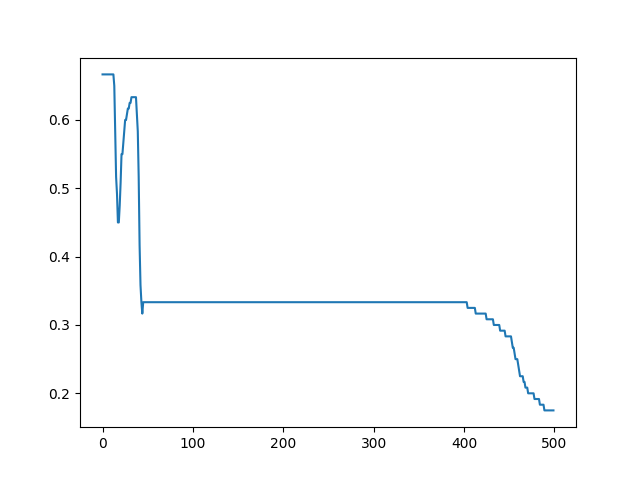
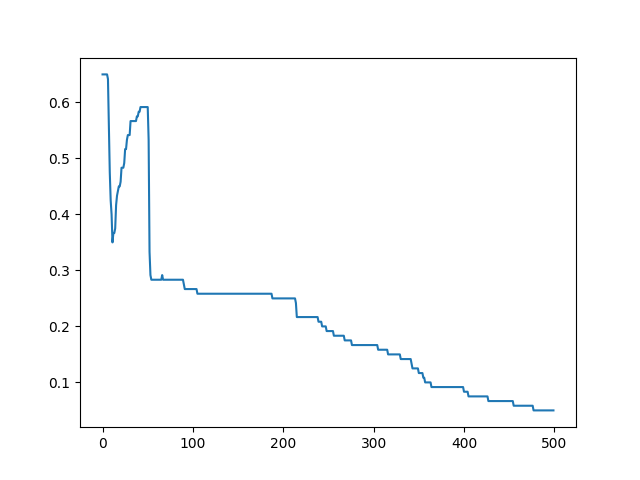
ss

diff --git a/T809DATA_2022/05_backprop/solution.py b/T809DATA_2022/05_backprop/solution.py
@@ -50,8 +50,9 @@ def ffnn(
     '''
     z0=np.insert(x,0,1)
     aOne= []
-    z1= []
+    z1=[]
     for i in range(M):
+
         aOne.append(sum(z0*W1[:,i]))
         z1.append(sigmoid(aOne[i]))
     z1.insert(0,1)
@@ -134,7 +135,7 @@ def train_nn(
     misclassification_rate= []
     results = []
     for j in range(iterations):
-        sum=0
+        sum=np.zeros(X_train.shape[0])
         errors=0
         dE1_total= np.zeros((W1.shape[0],W1.shape[1]))
         dE2_total= np.zeros((W2.shape[0],W2.shape[1]))
@@ -150,8 +151,8 @@ def train_nn(
             if(target_y[position]!= 1):
                 errors+=1
             for a in range(len(target_y)):
-                sum+=target_y[a]*np.log(y[a])+(1-target_y[a])*np.log(1-y[a])
-        E_total.append(-sum)
+                sum[i]+=target_y[a]*np.log(y[a])+(1-target_y[a])*np.log(1-y[a])
+        E_total.append(-np.mean(sum))
         misclassification_rate.append(errors/X_train.shape[0])
         W1 = W1- eta * dE1_total/ X_train.shape[0]
         W2 = W2- eta * dE2_total/ X_train.shape[0]
@@ -241,7 +242,7 @@ def independent():
     pass
 
 
-
+'''
 print("----TEST 1.1-----")
 print(sigmoid(0.5) == 0.6224593312018546)
 print(d_sigmoid(0.2) == 0.24751657271185995)
@@ -324,5 +325,154 @@ print(test_targets)
 
 print("----- TEST 2.3 -----")
 tester()
+'''
 
 
+
+print("TEST EXTRA 2")
+np.random.seed(90210)
+features, targets, classes = load_iris()
+(train_features, train_targets), (test_features, test_targets) = split_train_test(features, targets)
+
+print(train_features[:10,:])
+x = train_features[0, :]
+print(train_features[0, :])
+
+K = 3
+M = 8
+D = train_features.shape[1]
+W1 = 2 * np.random.rand(D + 1, M) - 1
+W2 = 2 * np.random.rand(M + 1, K) - 1
+
+print(W1)
+print(W2)
+y, z0, z1, a1, a2 = ffnn(x, M, K, W1, W2)
+
+print("1)Results mine:",y)
+print("2)Results teacher: [0.70954302, 0.53441718, 0.46529406]")
+
+print("2)Results mine:",z0)
+print("2)Results teacher: [1. , 4.8, 3.1, 1.6, 0.2]")
+
+print("3)Results mine:",z1)
+print("3)Results teacher: [1.00000000e+00, 4.28036933e-04, 3.24858743e-02, 1.06131693e-01, 9.89084573e-01, 9.47322339e-01, 9.74266738e-01, 4.57365902e-02, 9.51734218e-01]")
+
+print("4)Results mine:",a1)
+print("4)Results teacher: [-7.75587295, -3.39392467, -2.13087774,4.50660275, 2.88944794, 3.63390074, -3.03804111, 2.98156294]")
+
+print("5)Results mine:",a2)
+print("5)Results teacher: [ 0.89316566, 0.13788676, -0.13904734]")
+
+
+target_y = np.zeros(K)
+target_y[targets[0]] = 1.0
+y, dE1, dE2 = backprop(x, target_y, M, K, W1, W2)
+
+print("1)Results mine:",y)
+print("2)Results teacher: [0.70954302, 0.53441718, 0.46529406]")
+teacherResult= np.asmatrix([[-1.31236522e-04, -9.00275453e-03, -3.31464988e-03,3.74790282e-03, -1.91061161e-02, -5.14849162e-03,5.97235578e-03, -1.62546059e-02],[-6.29935308e-04, -4.32132218e-02, -1.59103194e-02,1.79899335e-02, -9.17093574e-02, -2.47127598e-02,2.86673078e-02, -7.80221084e-02],[-4.06833220e-04, -2.79085390e-02, -1.02754146e-02,1.16184987e-02, -5.92289600e-02, -1.59603240e-02,1.85143029e-02, -5.03892784e-02],[-2.09978436e-04, -1.44044073e-02, -5.30343980e-03,5.99664450e-03, -3.05697858e-02, -8.23758659e-03,9.55576925e-03, -2.60073695e-02],[-2.62473045e-05, -1.80055091e-03, -6.62929975e-04,7.49580563e-04, -3.82122323e-03, -1.02969832e-03,1.19447116e-03, -3.25092119e-03]])
+print("All Close dE1=",np.allclose(dE1,teacherResult))
+teacherResultdE2=[[-2.90456980e-01, 5.34417178e-01, 4.65294065e-01],[-1.24326315e-04, 2.28750290e-04, 1.99163044e-04],[-9.43574892e-03, 1.73610092e-02, 1.51154845e-02],[-3.08266911e-02, 5.67186000e-02, 4.93824470e-02],[-2.87286518e-01, 5.28583786e-01, 4.60215181e-01],[-2.75156385e-01, 5.06265331e-01, 4.40783462e-01],[-2.82982574e-01, 5.20664881e-01, 4.53320531e-01],[-1.32845118e-02, 2.44424195e-02, 2.12809640e-02],[-2.76437846e-01, 5.08623114e-01, 4.42836283e-01]]
+print("All Close dE2=",np.allclose(dE2,teacherResultdE2))
+
+W1tr, W2tr, Etotal, misclassification_rate, last_guesses = train_nn(train_features[:20, :], train_targets[:20], M, K, W1, W2, 500, 0.1)
+ETotalTeacher= [2.32723652, 2.22793384, 2.14841145, 2.08524528, 2.03533371,1.99599349, 1.96498535, 1.94048987, 1.92105642, 1.90554286,1.89305678, 1.88290374, 1.8745441 , 1.86755849, 1.86162078,1.85647726, 1.85193088, 1.8478293 , 1.84405593, 1.84052298,1.83716608, 1.83393963, 1.8308129 , 1.82776633, 1.82478823,1.82187195, 1.81901358, 1.81621029, 1.81345932, 1.81075746,1.80810097, 1.8054856 , 1.80290686, 1.80036012, 1.79784087,1.79534476, 1.79286769, 1.79040587, 1.78795577, 1.78551419,1.78307816, 1.78064498, 1.77821215, 1.7757774 , 1.77333859,1.77089377, 1.76844112, 1.76597891, 1.76350556, 1.76101953,1.7585194 , 1.7560038 , 1.75347141, 1.75092097, 1.74835125,1.74576105, 1.74314921, 1.74051456, 1.73785596, 1.73517225,1.73246228, 1.72972489, 1.72695889, 1.72416309, 1.72133624,1.71847709, 1.71558434, 1.71265666, 1.70969267, 1.70669097,1.70365013, 1.70056868, 1.69744515, 1.69427805, 1.69106593,1.68780736, 1.684501, 1.68114562, 1.67774012, 1.67428364,1.67077556, 1.6672156 , 1.66360386, 1.65994095, 1.65622796,1.6524666 , 1.64865921, 1.6448088 , 1.64091899, 1.63699407,1.63303882, 1.62905848, 1.62505857, 1.62104471, 1.61702247,1.61299715, 1.60897364, 1.60495626, 1.60094867, 1.5969538 ,1.59297386, 1.58901033, 1.58506411, 1.5811355 , 1.57722439,1.57333032, 1.5694526 , 1.56559038, 1.56174274, 1.55790872,1.55408741, 1.55027793, 1.54647948, 1.54269136, 1.53891293,1.53514367, 1.53138313, 1.52763093, 1.52388678, 1.52015047,1.51642183, 1.51270076, 1.5089872 , 1.50528115, 1.50158263,1.49789172, 1.4942085 , 1.49053312, 1.48686572, 1.48320646,1.47955554, 1.47591317, 1.47227955, 1.46865492, 1.46503951,1.46143357, 1.45783735, 1.4542511 , 1.45067509, 1.44710956,1.44355479, 1.44001102, 1.43647853, 1.43295756, 1.42944837,1.42595121, 1.42246633, 1.41899397, 1.41553438, 1.41208777,1.40865439, 1.40523445, 1.40182817, 1.39843576, 1.39505742,1.39169335, 1.38834374, 1.38500877, 1.38168863, 1.37838348,1.37509347, 1.37181878, 1.36855955, 1.36531592, 1.36208802,1.358876, 1.35567996, 1.35250002, 1.34933629, 1.34618888,1.34305788, 1.33994338, 1.33684547, 1.33376422, 1.3306997 ,1.32765197, 1.32462111, 1.32160716, 1.31861017, 1.31563018,1.31266722, 1.30972135, 1.30679256, 1.3038809 , 1.30098637,1.29810899, 1.29524876, 1.29240568, 1.28957975, 1.28677097,1.28397931, 1.28120476, 1.27844731, 1.27570692, 1.27298356,1.2702772 , 1.2675878 , 1.26491533, 1.26225973, 1.25962095,1.25699894, 1.25439365, 1.25180501, 1.24923296, 1.24667744,1.24413837, 1.24161569, 1.23910931, 1.23661916, 1.23414516,1.23168722, 1.22924527, 1.2268192 , 1.22440893, 1.22201437,1.21963542, 1.21727199, 1.21492397, 1.21259127, 1.21027379,1.20797142, 1.20568405, 1.20341159, 1.20115392, 1.19891093,1.19668251, 1.19446856, 1.19226896, 1.19008359, 1.18791235,1.18575512, 1.18361178, 1.18148222, 1.17936632, 1.17726397,1.17517504, 1.17309942, 1.17103699, 1.16898764, 1.16695124,1.16492767, 1.16291683, 1.16091858, 1.15893281, 1.1569594 ,1.15499823, 1.15304919, 1.15111215, 1.149187 , 1.14727362,1.14537188, 1.14348168, 1.1416029 , 1.13973541, 1.13787911,1.13603387, 1.13419958, 1.13237612, 1.13056339, 1.12876126,1.12696961, 1.12518835, 1.12341735, 1.1216565 , 1.11990569,1.11816481, 1.11643375, 1.11471239, 1.11300063, 1.11129835,1.10960546, 1.10792183, 1.10624737, 1.10458197, 1.10292552,1.10127791, 1.09963905, 1.09800882, 1.09638712, 1.09477385,1.09316891, 1.0915722 , 1.08998361, 1.08840305, 1.08683042,1.08526561, 1.08370852, 1.08215907, 1.08061716, 1.07908268,1.07755554, 1.07603566, 1.07452292, 1.07301725, 1.07151854,1.07002671, 1.06854166, 1.0670633 , 1.06559155, 1.06412631,1.0626675 , 1.06121502, 1.05976879, 1.05832872, 1.05689473,1.05546673, 1.05404464, 1.05262837, 1.05121784, 1.04981296,1.04841366, 1.04701986, 1.04563146, 1.0442484 , 1.04287059,1.04149795, 1.04013041, 1.03876789, 1.03741031, 1.0360576 ,1.03470968, 1.03336647, 1.0320279 , 1.0306939 , 1.0293644 ,1.02803932, 1.02671859, 1.02540214, 1.0240899 , 1.0227818 ,1.02147777, 1.02017775, 1.01888166, 1.01758943, 1.01630101,1.01501633, 1.01373531, 1.0124579 , 1.01118403, 1.00991364,1.00864667, 1.00738305, 1.00612272, 1.00486562, 1.00361169,1.00236087, 1.0011131 , 0.99986833, 0.99862649, 0.99738753,0.99615138, 0.99491801, 0.99368734, 0.99245933, 0.99123392,0.99001105, 0.98879068, 0.98757275, 0.9863572 , 0.985144 ,0.98393308, 0.9827244 , 0.9815179 , 0.98031354, 0.97911127,0.97791104, 0.97671281, 0.97551652, 0.97432213, 0.9731296 ,0.97193887, 0.97074992, 0.96956268, 0.96837712, 0.9671932 ,0.96601087, 0.96483009, 0.96365082, 0.96247302, 0.96129665,0.96012167, 0.95894804, 0.95777572, 0.95660467, 0.95543486,0.95426626, 0.95309881, 0.95193249, 0.95076726, 0.94960309,0.94843994, 0.94727779, 0.94611658, 0.9449563 , 0.94379692,0.94263839, 0.94148068, 0.94032378, 0.93916764, 0.93801224,0.93685755, 0.93570353, 0.93455017, 0.93339743, 0.93224529,0.93109371, 0.92994268, 0.92879216, 0.92764214, 0.92649258,0.92534347, 0.92419477, 0.92304647, 0.92189854, 0.92075096,0.9196037 , 0.91845675, 0.91731009, 0.91616369, 0.91501753,0.9138716 , 0.91272587, 0.91158032, 0.91043494, 0.90928971,0.90814461, 0.90699962, 0.90585472, 0.90470991, 0.90356516,0.90242046, 0.90127579, 0.90013114, 0.8989865 , 0.89784184,0.89669716, 0.89555244, 0.89440767, 0.89326284, 0.89211794,0.89097295, 0.88982786, 0.88868266, 0.88753735, 0.8863919 ,0.88524632, 0.88410059, 0.8829547 , 0.88180865, 0.88066242,0.87951601, 0.87836941, 0.87722261, 0.8760756 , 0.87492839,0.87378096, 0.8726333 , 0.87148542, 0.8703373 , 0.86918895,0.86804034, 0.86689149, 0.86574239, 0.86459303, 0.86344342,0.86229354, 0.86114339, 0.85999298, 0.85884229, 0.85769133,0.8565401 , 0.85538859, 0.85423681, 0.85308475, 0.85193241,0.85077979, 0.84962689, 0.84847372, 0.84732027, 0.84616654,0.84501253, 0.84385825, 0.84270369, 0.84154887, 0.84039377,0.8392384 , 0.83808277, 0.83692688, 0.83577073, 0.83461432,0.83345766, 0.83230074, 0.83114358, 0.82998618, 0.82882854,0.82767067, 0.82651257, 0.82535424, 0.82419569, 0.82303693]
+W1tr_teacher=[[-0.25110607, 0.92796049, -0.91225195, -0.28777929, 0.81318948, 0.23835522, -0.22360665, 0.12187613],[-0.86742106, 1.03317936, -0.12795325, 0.8859156 , 0.84864034, 0.77358935, 0.1295815 , -0.40672377],[-0.71318284,0.05932081, 0.45588421, 0.49032422, 0.56954347, -0.06139885,1.40122813, 0.72979185],[-0.72024839, -1.07713655, -0.71681752, -0.79729479, -2.61269353, 0.09370074, -1.77038908, 0.77990277],[ 0.12129967, -1.53913854, -0.35751647, 0.97434933, -0.59098694, -0.49435129, -0.2846215 , 0.65391059]]
+misclassification_rateTeacher= [0.7 , 0.7 , 0.7 , 0.7 , 0.7 , 0.7 , 0.7 , 0.4 , 0.55, 0.55, 0.55,0.55, 0.55, 0.55, 0.55, 0.55, 0.55, 0.55, 0.55, 0.55, 0.55, 0.55,0.55, 0.55, 0.55, 0.55, 0.55, 0.55, 0.55, 0.55, 0.55, 0.55, 0.55,0.55, 0.55, 0.55, 0.55, 0.55, 0.55, 0.55, 0.55, 0.55, 0.55, 0.55,0.55, 0.55, 0.55, 0.55, 0.55, 0.55, 0.55, 0.55, 0.55, 0.55, 0.55,0.55, 0.55, 0.55, 0.55, 0.55, 0.55, 0.55, 0.55, 0.55, 0.55, 0.55,0.55, 0.55, 0.55, 0.55, 0.55, 0.55, 0.55, 0.55, 0.55, 0.55, 0.55,0.55, 0.55, 0.55, 0.55, 0.55, 0.55, 0.55, 0.55, 0.5 , 0.45, 0.45,0.45, 0.35, 0.35, 0.3 , 0.25, 0.25, 0.25, 0.25, 0.25, 0.25, 0.25,0.25, 0.25, 0.25, 0.25, 0.25, 0.25, 0.25, 0.25, 0.25, 0.25, 0.25,0.25, 0.25, 0.25, 0.25, 0.25, 0.25, 0.25, 0.25, 0.25, 0.25, 0.25,0.25, 0.25, 0.25, 0.25, 0.25, 0.25, 0.25, 0.25, 0.25, 0.25, 0.25,0.25, 0.25, 0.25, 0.25, 0.25, 0.25, 0.25, 0.25, 0.25, 0.25, 0.25,0.25, 0.25, 0.25, 0.25, 0.25, 0.25, 0.25, 0.25, 0.25, 0.25, 0.25,0.25, 0.25, 0.25, 0.25, 0.25, 0.25, 0.25, 0.25, 0.25, 0.25, 0.25,0.25, 0.25, 0.25, 0.25, 0.25, 0.25, 0.25, 0.25, 0.25, 0.25, 0.25,0.25, 0.25, 0.25, 0.25, 0.25, 0.25, 0.25, 0.25, 0.25, 0.25, 0.25,0.25, 0.25, 0.25, 0.25, 0.25, 0.25, 0.25, 0.25, 0.25, 0.25, 0.25,0.25, 0.25, 0.25, 0.25, 0.25, 0.25, 0.25, 0.25, 0.25, 0.25, 0.25,0.25, 0.25, 0.25, 0.25, 0.25, 0.25, 0.25, 0.25, 0.25, 0.25, 0.25,0.25, 0.25, 0.25, 0.25, 0.25, 0.25, 0.25, 0.25, 0.25, 0.25, 0.25,0.25, 0.25, 0.25, 0.25, 0.25, 0.25, 0.25, 0.25, 0.25, 0.25, 0.25,0.25, 0.25, 0.25, 0.25, 0.25, 0.25, 0.25, 0.25, 0.25, 0.25, 0.25,0.25, 0.25, 0.25, 0.25, 0.25, 0.25, 0.25, 0.25, 0.25, 0.25, 0.25,0.25, 0.25, 0.25, 0.25, 0.25, 0.25, 0.25, 0.25, 0.25, 0.25, 0.25,0.25, 0.25, 0.25, 0.25, 0.25, 0.25, 0.25, 0.25, 0.25, 0.25, 0.25,0.25, 0.25, 0.25, 0.25, 0.25, 0.25, 0.25, 0.25, 0.25, 0.25, 0.25,0.25, 0.25, 0.25, 0.25, 0.25, 0.25, 0.25, 0.25, 0.25, 0.25, 0.25,0.25, 0.25, 0.25, 0.25, 0.25, 0.25, 0.25, 0.25, 0.25, 0.25, 0.25,0.25, 0.25, 0.25, 0.25, 0.25, 0.25, 0.25, 0.25, 0.25, 0.25, 0.25,0.25, 0.25, 0.25, 0.25, 0.25, 0.25, 0.25, 0.25, 0.25, 0.25, 0.25,0.25, 0.25, 0.25, 0.25, 0.25, 0.25, 0.25, 0.25, 0.25, 0.25, 0.25,0.25, 0.25, 0.25, 0.25, 0.25, 0.25, 0.25, 0.25, 0.25, 0.25, 0.25,0.25, 0.25, 0.25, 0.25, 0.25, 0.25, 0.25, 0.25, 0.25, 0.25, 0.25,0.25, 0.25, 0.25, 0.25, 0.25, 0.25, 0.25, 0.25, 0.25, 0.25, 0.25,0.25, 0.25, 0.25, 0.25, 0.25, 0.25, 0.25, 0.25, 0.25, 0.25, 0.25,0.25, 0.25, 0.25, 0.25, 0.25, 0.25, 0.25, 0.25, 0.25, 0.25, 0.25,0.25, 0.25, 0.25, 0.25, 0.25, 0.25, 0.25, 0.25, 0.25, 0.25, 0.25,0.25, 0.25, 0.25, 0.25, 0.25, 0.25, 0.25, 0.25, 0.25, 0.25, 0.25,0.25, 0.25, 0.25, 0.25, 0.25, 0.25, 0.25, 0.25, 0.25, 0.25, 0.25,0.25, 0.25, 0.25, 0.25, 0.25, 0.25, 0.25, 0.25, 0.25, 0.25, 0.25,0.25, 0.25, 0.25, 0.25, 0.25, 0.25, 0.25, 0.25, 0.25, 0.25, 0.25,0.25, 0.25, 0.25, 0.25, 0.25, 0.25, 0.25, 0.25, 0.25, 0.25, 0.25,0.25, 0.25, 0.25, 0.25, 0.25, 0.25, 0.25, 0.25, 0.25, 0.25, 0.25,0.2 , 0.2 , 0.2 , 0.2 , 0.2 , 0.2 , 0.2 , 0.2 , 0.2 , 0.2 , 0.2 ,0.2 , 0.2 , 0.2 , 0.2 , 0.2 ]
+W2tr_teacher=[[-1.46173805, -0.04343924, 0.33552804],[-0.54489514, -0.05791163, -0.93626623],[ 1.0299593 , 1.25958619, -2.05995921],[-0.24239565, -0.91381051, 0.1240486 ],[-0.21688972, 0.33045176, 0.67208629],[ 2.75398285, -2.32759378, -2.17946552],[-0.83027554, -0.28835281, -0.06244675],[ 2.654379 , -0.9461879 , -0.76684353],[-1.27516546, -0.11441948, -0.53249936]]
+print("W1TR=", np.allclose(W1tr,W1tr_teacher))
+print("W2TR=", np.allclose(W2tr,W2tr_teacher))
+print("MisclassificationRate =",np.allclose(misclassification_rate,misclassification_rateTeacher))
+print("last_guesses",(np.allclose(last_guesses,[0., 1., 1., 1., 1., 0., 1., 1., 1., 1., 0., 1., 2., 0., 1., 1., 1.,0., 0., 1.])))
+print("Etotal-Comparison", np.allclose(Etotal,ETotalTeacher))
+
+
+print("Case 1")
+np.random.seed(23)
+features, targets, classes = load_iris()
+(train_features, train_targets), (test_features, test_targets) = split_train_test(features, targets)
+x = train_features[0, :]
+K = 3
+M = 6
+D = train_features.shape[1]
+W1 = 2 * np.random.rand(D + 1, M) - 1
+W2 = 2 * np.random.rand(M + 1, K) - 1
+y, z0, z1, a1, a2 = ffnn(x, M, K, W1, W2)
+
+
+print("y result = ", np.allclose(y,[0.3021099 , 0.48035154, 0.35292289]))
+print("z0 result = ", np.allclose(z0,[1. , 6.9, 3.1, 5.4, 2.1]))
+print("z1 result = ", np.allclose(z1,[1., 0.50598577, 0.81012814, 0.93167592, 0.37820463,0.14214478, 0.54717557]))
+print("a1 result = ", np.allclose(a1,[ 0.02394422, 1.45084301, 2.6127227 , -0.49717567, -1.79758923,0.18926524]))
+print("a1 result = ", np.allclose(a2,[-0.83727076, -0.07863435, -0.60621589]))
+
+
+target_y = np.zeros(K)
+target_y[targets[0]] = 1.0
+
+y, dE1, dE2 = backprop(x, target_y, M, K, W1, W2)
+print("y result = ", np.allclose(y,[0.3021099 , 0.48035154, 0.35292289]))
+dE1_teacher =[[0.00430237,-0.01753789,-0.02415926,0.30105166,-0.08800872,0.11542633],[0.02968633,-0.12101146,-0.16669889,2.07725644,-0.60726014,0.79644169],[0.01333734,-0.05436747,-0.07489371,0.93326014,-0.27282702,0.35782163],[0.02323278,-0.09470462,-0.13046,1.62567895,-0.47524707,0.62330219],[0.00903497,-0.03682958,-0.05073445,0.63220848,-0.1848183,0.2423953]]
+print("dE1 result = ", np.allclose(dE1,dE1_teacher))
+dE2_teacher =[[-0.6978901 , 0.48035154, 0.35292289],[-0.35312246, 0.24305104, 0.17857396],[-0.56538041, 0.3891463 ,0.28591276],[-0.65020739, 0.44753196, 0.32880975],[-0.26394526, 0.18167117, 0.13347707],[-0.09920143, 0.06827946,0.05016615],[-0.38186841, 0.26283663, 0.19311078]]
+print("dE2 result = ", np.allclose(dE2,dE2_teacher))
+
+
+W1tr, W2tr, Etotal, misclassification_rate, last_guesses = train_nn(train_features[:20, :], train_targets[:20], M, K, W1, W2, 500, 0.1)
+
+W1tr_teacher= [[ 0.4113604 , -0.03795444, 0.51340102, -0.12301019, -0.50337017, -0.51770395],[-1.63577531, -0.30102308, 0.44760859, -0.16212304, -0.76077129, 0.27412644],[-0.76914322, 1.29831831, 1.50732621, -1.28479466, 0.30739053, -1.56992871],[ 2.10438589, 0.75926539, -1.25962029, 1.67000656, -0.05154486, 1.21992214],[ 1.26850911, -0.24751442, -1.27533329, 0.77080041, 0.54099358, 1.22745711]]
+W2tr_teacher= [[0.28081412,-1.09243887,-0.71713827],[-1.57190232,-1.42154094,2.40252082],[-0.37652149,-1.59215728,-1.05827982],[2.95225318,0.37483314,-2.54744777],[-2.00431058,1.68047786,1.45127103],[0.93431371,0.10253565,-0.41364751],[-2.07569964,1.3497858,0.15276565]]
+ETotalTeacher=[2.14469834, 2.10243644, 2.07089589, 2.0456536 , 2.02444672,2.0059886 , 1.98949344, 1.97445629, 1.9605386 , 1.94750287,1.93517287, 1.92340865, 1.91209101, 1.90111272, 1.89037482,1.87978684, 1.86927025, 1.85876409, 1.84823136, 1.83766332,1.82707849, 1.81651415, 1.8060118 , 1.79560209, 1.78529582,1.77508419, 1.76494611, 1.75485799, 1.74480169, 1.73476896,1.72476201, 1.71479123, 1.7048715 , 1.6950183 , 1.68524492,1.67556102, 1.6659725 , 1.65648216, 1.64709061, 1.63779715,1.62860035, 1.61949846, 1.61048967, 1.60157225, 1.59274459,1.58400528, 1.57535314, 1.56678726, 1.55830697, 1.54991193,1.54160208, 1.53337765, 1.52523912, 1.51718723, 1.50922292,1.50134726, 1.49356145, 1.48586674, 1.47826438, 1.47075558,1.46334143, 1.45602293, 1.44880092, 1.44167603, 1.43464875,1.42771934, 1.42088788, 1.41415427, 1.40751822, 1.40097928,1.39453686, 1.38819022, 1.3819385 , 1.37578076, 1.36971594,1.36374294, 1.35786055, 1.35206755, 1.34636267, 1.34074459,1.33521198, 1.32976349, 1.32439776, 1.31911342, 1.3139091 ,1.30878343, 1.30373505, 1.2987626 , 1.29386473, 1.28904012,1.28428744, 1.27960538, 1.27499265, 1.27044799, 1.26597013,1.26155783, 1.25720987, 1.25292505, 1.24870219, 1.24454011,1.24043768, 1.23639375, 1.23240723, 1.22847702, 1.22460205,1.22078125, 1.2170136 , 1.21329808, 1.20963368, 1.20601942,1.20245434, 1.19893748, 1.19546791, 1.19204472, 1.18866701,1.1853339 , 1.18204451, 1.178798 , 1.17559354, 1.1724303 ,1.16930747, 1.16622428, 1.16317994, 1.16017369, 1.15720479,1.15427251, 1.15137612, 1.14851493, 1.14568824, 1.14289537,1.14013566, 1.13740846, 1.13471312, 1.13204902, 1.12941555,1.1268121 , 1.12423807, 1.12169289, 1.11917599, 1.11668682,1.11422481, 1.11178945, 1.1093802 , 1.10699654, 1.10463798,1.10230401, 1.09999415, 1.09770793, 1.09544487, 1.09320452,1.09098644, 1.08879017, 1.08661529, 1.08446139, 1.08232803,1.08021482, 1.07812136, 1.07604726, 1.07399213, 1.0719556 ,1.0699373 , 1.06793688, 1.06595398, 1.06398824, 1.06203934,1.06010694, 1.05819071, 1.05629033, 1.05440548, 1.05253587,1.05068119, 1.04884114, 1.04701543, 1.04520378, 1.0434059 ,1.04162153, 1.0398504 , 1.03809224, 1.03634679, 1.03461381,1.03289304, 1.03118424, 1.02948717, 1.02780159, 1.02612729,1.02446402, 1.02281158, 1.02116974, 1.01953829, 1.01791702,1.01630573, 1.01470421, 1.01311228, 1.01152973, 1.00995638,1.00839203, 1.00683652, 1.00528965, 1.00375126, 1.00222117,1.00069921, 0.99918521, 0.99767902, 0.99618047, 0.99468941,0.99320568, 0.99172913, 0.99025961, 0.98879698, 0.9873411 ,0.98589182, 0.98444901, 0.98301253, 0.98158226, 0.98015805,0.97873979, 0.97732734, 0.9759206 , 0.97451942, 0.97312371,0.97173334, 0.9703482 , 0.96896817, 0.96759315, 0.96622303,0.96485771, 0.96349708, 0.96214104, 0.96078949, 0.95944233,0.95809947, 0.95676082, 0.95542628, 0.95409575, 0.95276917,0.95144642, 0.95012744, 0.94881214, 0.94750043, 0.94619223,0.94488747, 0.94358607, 0.94228795, 0.94099304, 0.93970127,0.93841256, 0.93712685, 0.93584406, 0.93456412, 0.93328698,0.93201257, 0.93074082, 0.92947167, 0.92820507, 0.92694094,0.92567924, 0.9244199 , 0.92316288, 0.9219081 , 0.92065553,0.91940511, 0.91815678, 0.9169105 , 0.91566621, 0.91442387,0.91318343, 0.91194485, 0.91070807, 0.90947306, 0.90823976,0.90700814, 0.90577816, 0.90454978, 0.90332294, 0.90209763,0.90087379, 0.89965139, 0.89843039, 0.89721076, 0.89599247,0.89477547, 0.89355974, 0.89234524, 0.89113194, 0.88991982,0.88870883, 0.88749895, 0.88629015, 0.8850824 , 0.88387568,0.88266996, 0.88146521, 0.8802614 , 0.87905852, 0.87785653,0.87665542, 0.87545515, 0.87425571, 0.87305708, 0.87185923,0.87066215, 0.8694658 , 0.86827018, 0.86707527, 0.86588104,0.86468748, 0.86349456, 0.86230228, 0.86111062, 0.85991955,0.85872907, 0.85753916, 0.8563498 , 0.85516098, 0.85397269,0.85278491, 0.85159762, 0.85041083, 0.84922451, 0.84803866,0.84685326, 0.8456683 , 0.84448377, 0.84329966, 0.84211596,0.84093266, 0.83974976, 0.83856724, 0.83738509, 0.83620331,0.8350219 , 0.83384083, 0.83266012, 0.83147974, 0.83029969,0.82911997, 0.82794058, 0.8267615 , 0.82558273, 0.82440427,0.82322611, 0.82204824, 0.82087068, 0.8196934 , 0.81851641,0.8173397 , 0.81616327, 0.81498713, 0.81381125, 0.81263566,0.81146033, 0.81028528, 0.80911049, 0.80793598, 0.80676173,0.80558775, 0.80441403, 0.80324058, 0.8020674 , 0.80089448,0.79972183, 0.79854944, 0.79737733, 0.79620548, 0.7950339 ,0.7938626 , 0.79269157, 0.79152081, 0.79035033, 0.78918013,0.78801021, 0.78684057, 0.78567122, 0.78450215, 0.78333338,0.7821649 , 0.78099673, 0.77982885, 0.77866128, 0.77749401,0.77632706, 0.77516042, 0.7739941 , 0.77282811, 0.77166245,0.77049712, 0.76933212, 0.76816747, 0.76700317, 0.76583921,0.76467562, 0.76351238, 0.76234952, 0.76118702, 0.76002491,0.75886317, 0.75770183, 0.75654088, 0.75538033, 0.75422019,0.75306047, 0.75190116, 0.75074227, 0.74958382, 0.74842581,0.74726824, 0.74611112, 0.74495446, 0.74379826, 0.74264253,0.74148728, 0.74033252, 0.73917824, 0.73802447, 0.7368712 ,0.73571844, 0.73456621, 0.7334145 , 0.73226332, 0.73111269,0.72996261, 0.72881308, 0.72766412, 0.72651573, 0.72536791,0.72422069, 0.72307406, 0.72192803, 0.72078261, 0.71963781,0.71849364, 0.7173501 , 0.7162072 , 0.71506495, 0.71392336,0.71278243, 0.71164218, 0.71050261, 0.70936373, 0.70822554,0.70708806, 0.7059513 , 0.70481526, 0.70367994, 0.70254537,0.70141154, 0.70027846, 0.69914615, 0.69801461, 0.69688385,0.69575388, 0.6946247 , 0.69349633, 0.69236876, 0.69124202,0.69011611, 0.68899103, 0.6878668 , 0.68674342, 0.6856209 ,0.68449925, 0.68337848, 0.6822586 , 0.68113961, 0.68002152,0.67890435, 0.67778809, 0.67667276, 0.67555836, 0.67444491,0.67333241, 0.67222087, 0.67111029, 0.67000069, 0.66889208,0.66778445, 0.66667783, 0.66557221, 0.66446761, 0.66336403,0.66226148, 0.66115998, 0.66005952, 0.65896011, 0.65786177,0.65676449, 0.6556683 , 0.65457319, 0.65347918, 0.65238626,0.65129446, 0.65020377, 0.6491142 , 0.64802577, 0.64693848,0.64585233, 0.64476733, 0.6436835 , 0.64260084, 0.64151935]
+misclassification_rateTeacher=[0.7 , 0.7 , 0.7 , 0.7 , 0.65, 0.65, 0.75, 0.7 , 0.7 , 0.7 , 0.65,0.65, 0.65, 0.65, 0.65, 0.65, 0.65, 0.65, 0.5 , 0.5 , 0.45, 0.4 ,0.4 , 0.4 , 0.4 , 0.3 , 0.3 , 0.3 , 0.3 , 0.3 , 0.3 , 0.3 , 0.3 ,0.3 , 0.3 , 0.3 , 0.3 , 0.3 , 0.3 , 0.3 , 0.3 , 0.3 , 0.3 , 0.3 ,0.3 , 0.3 , 0.3 , 0.3 , 0.3 , 0.3 , 0.3 , 0.3 , 0.3 , 0.3 , 0.3 ,0.3 , 0.3 , 0.3 , 0.3 , 0.3 , 0.3 , 0.3 , 0.3 , 0.3 , 0.3 , 0.3 ,0.3 , 0.3 , 0.3 , 0.3 , 0.3 , 0.3 , 0.3 , 0.3 , 0.3 , 0.3 , 0.3 ,0.3 , 0.3 , 0.3 , 0.3 , 0.3 , 0.3 , 0.3 , 0.3 , 0.3 , 0.3 , 0.3 ,0.3 , 0.3 , 0.3 , 0.3 , 0.3 , 0.3 , 0.3 , 0.3 , 0.3 , 0.3 , 0.3 ,0.3 , 0.3 , 0.3 , 0.3 , 0.3 , 0.3 , 0.3 , 0.3 , 0.3 , 0.3 , 0.3 ,0.3 , 0.3 , 0.3 , 0.3 , 0.3 , 0.3 , 0.3 , 0.3 , 0.3 , 0.3 , 0.3 ,0.3 , 0.3 , 0.3 , 0.3 , 0.3 , 0.3 , 0.3 , 0.3 , 0.3 , 0.3 , 0.3 ,0.3 , 0.3 , 0.3 , 0.3 , 0.3 , 0.3 , 0.3 , 0.3 , 0.3 , 0.3 , 0.3 ,0.3 , 0.3 , 0.3 , 0.3 , 0.3 , 0.3 , 0.3 , 0.3 , 0.3 , 0.3 , 0.3 ,0.3 , 0.3 , 0.3 , 0.3 , 0.3 , 0.3 , 0.3 , 0.25, 0.25, 0.25, 0.25,0.25, 0.25, 0.25, 0.25, 0.25, 0.25, 0.25, 0.25, 0.25, 0.25, 0.25,0.25, 0.25, 0.25, 0.25, 0.25, 0.25, 0.25, 0.25, 0.25, 0.25, 0.25,0.25, 0.25, 0.25, 0.25, 0.25, 0.25, 0.25, 0.25, 0.25, 0.25, 0.25,0.25, 0.25, 0.25, 0.25, 0.25, 0.25, 0.25, 0.25, 0.25, 0.25, 0.25,0.25, 0.25, 0.25, 0.2 , 0.2 , 0.2 , 0.2 , 0.2 , 0.2 , 0.2 , 0.2 ,0.2 , 0.2 , 0.2 , 0.2 , 0.2 , 0.2 , 0.2 , 0.2 , 0.15, 0.15, 0.15,0.15, 0.15, 0.15, 0.15, 0.15, 0.15, 0.15, 0.15, 0.15, 0.15, 0.15,0.15, 0.15, 0.15, 0.15, 0.15, 0.15, 0.15, 0.15, 0.15, 0.15, 0.15,0.15, 0.15, 0.15, 0.15, 0.15, 0.15, 0.15, 0.15, 0.1 , 0.1 , 0.1 ,0.1 , 0.1 , 0.1 , 0.1 , 0.1 , 0.1 , 0.1 , 0.1 , 0.1 , 0.1 , 0.1 ,0.1 , 0.1 , 0.1 , 0.1 , 0.1 , 0.1 , 0.1 , 0.1 , 0.1 , 0.1 , 0.1 ,0.1 , 0.1 , 0.1 , 0.1 , 0.1 , 0.1 , 0.1 , 0.1 , 0.1 , 0.1 , 0.1 ,0.1 , 0.1 , 0.1 , 0.1 , 0.1 , 0.1 , 0.1 , 0.1 , 0.1 , 0.1 , 0.1 ,0.1 , 0.1 , 0.1 , 0.1 , 0.1 , 0.1 , 0.1 , 0.1 , 0.1 , 0.1 , 0.1 ,0.1 , 0.1 , 0.1 , 0.1 , 0.1 , 0.1 , 0.1 , 0.1 , 0.1 , 0.1 , 0.1 ,0.1 , 0.1 , 0.1 , 0.1 , 0.1 , 0.1 , 0.1 , 0.1 , 0.1 , 0.1 , 0.1 ,0.1 , 0.1 , 0.1 , 0.1 , 0.1 , 0.1 , 0.1 , 0.1 , 0.1 , 0.1 , 0.1 ,0.1 , 0.1 , 0.1 , 0.1 , 0.1 , 0.1 , 0.1 , 0.1 , 0.1 , 0.1 , 0.1 ,0.1 , 0.1 , 0.1 , 0.1 , 0.1 , 0.1 , 0.1 , 0.1 , 0.1 , 0.1 , 0.1 ,0.1 , 0.1 , 0.1 , 0.1 , 0.1 , 0.1 , 0.1 , 0.1 , 0.1 , 0.1 , 0.05,0.05, 0.05, 0.05, 0.05, 0.05, 0.05, 0.05, 0.05, 0.05, 0.05, 0.05,0.05, 0.05, 0.05, 0.05, 0.05, 0.05, 0.05, 0.05, 0.05, 0.05, 0.05,0.05, 0.05, 0.05, 0.05, 0.05, 0.05, 0.05, 0.05, 0.05, 0.05, 0.05,0.05, 0.05, 0.05, 0.05, 0.05, 0.05, 0.05, 0.05, 0.05, 0.05, 0.05,0.05, 0.05, 0.05, 0.05, 0.05, 0.05, 0.05, 0.05, 0.05, 0.05, 0.05,0.05, 0.05, 0.05, 0.05, 0.05, 0.05, 0.05, 0.05, 0.05, 0.05, 0.05,0., 0., 0., 0., 0., 0., 0., 0., 0., 0., 0.,0., 0., 0., 0., 0., 0., 0., 0., 0., 0., 0.,0., 0., 0., 0., 0., 0., 0., 0., 0., 0., 0.,0., 0., 0., 0., 0., 0., 0., 0., 0., 0., 0.,0., 0., 0., 0., 0.]
+print("W1TR=", np.allclose(W1tr,W1tr_teacher))
+print("W2TR=", np.allclose(W2tr,W2tr_teacher))
+print("Etotal-Comparison", np.allclose(Etotal,ETotalTeacher))
+print("MisclassificationRate =",np.allclose(misclassification_rate,misclassification_rateTeacher))
+print("last_guesses",(np.allclose(last_guesses,[2., 2., 1., 0., 2., 1., 0., 2., 0., 1., 1., 0., 2., 0., 0., 2., 1.,1., 2., 0.])))
+
+
+print("Case 3")
+np.random.seed(911)
+features, targets, classes = load_iris()
+(train_features, train_targets), (test_features, test_targets) = split_train_test(features, targets)
+x = train_features[0, :]
+K = 3
+M = 7
+D = train_features.shape[1]
+W1 = 2 * np.random.rand(D + 1, M) - 1
+W2 = 2 * np.random.rand(M + 1, K) - 1
+y, z0, z1, a1, a2 = ffnn(x, M, K, W1, W2)
+
+
+print("y result = ", np.allclose(y,[0.41749343, 0.85666471, 0.85807563]))
+print("z0 result = ", np.allclose(z0,[1. , 5.7, 2.5, 5. , 2. ]))
+print("z1 result = ", np.allclose(z1,[1.00000000e+00, 1.76181506e-04, 1.99555822e-03, 7.93689653e-02, 8.73887332e-01, 4.64877865e-02, 4.60257183e-01, 2.49294744e-05]))
+print("a1 result = ", np.allclose(a1,[ -8.64381961,-6.21483391,-2.45095192, 1.93577576, -3.02096261,-0.15930734, -10.59943482]))
+print("a2 result = ", np.allclose(a2,[-0.33307168,1.78786006,1.79939794]))
+
+
+target_y = np.zeros(K)
+target_y[targets[0]] = 1.0
+
+y, dE1, dE2 = backprop(x, target_y, M, K, W1, W2)
+print("y result = ", np.allclose(y,[0.41749343, 0.85666471, 0.85807563]))
+dE1_teacher =[[-1.63098070e-04,5.44630698e-04,9.12192425e-02,7.89677882e-02, -7.28629667e-02,4.73597821e-01, 7.47250078e-06], [-9.29658997e-04,3.10439498e-03,5.19949682e-01, 4.50116393e-01, -4.15318910e-01,2.69950758e+00,4.25932545e-05], [-4.07745174e-04,1.36157674e-03,2.28048106e-01, 1.97419470e-01, -1.82157417e-01,1.18399455e+00, 1.86812520e-05], [-8.15490348e-04,2.72315349e-03,4.56096213e-01,3.94838941e-01, -3.64314834e-01,2.36798910e+00, 3.73625039e-05], [-3.26196139e-04,1.08926140e-03,1.82438485e-01, 1.57935576e-01, -1.45725933e-01,9.47195642e-01, 1.49450016e-05]]
+print("dE1 result = ", np.allclose(dE1,dE1_teacher))
+dE2_teacher =[[-5.82506575e-01,8.56664713e-01,8.58075631e-01], [-1.02626885e-04,1.50928479e-04,1.51177057e-04], [-1.16242578e-03,1.70952431e-03,1.71233987e-03], [-4.62329441e-02,6.79925919e-02,6.81045750e-02],[-5.09045116e-01,7.48628440e-01,7.49861423e-01], [-2.70794413e-02,3.98244463e-02,3.98900368e-02], [-2.68102835e-01,3.94286087e-01,3.94935472e-01], [-1.45215827e-05,2.13562010e-05,2.13913744e-05]]
+print("dE2 result = ", np.allclose(dE2,dE2_teacher))
+
+
+W1tr, W2tr, Etotal, misclassification_rate, last_guesses = train_nn(train_features[:20, :], train_targets[:20], M, K, W1, W2, 500, 0.1)
+W1tr_teacher= [[-0.26306569,1.16719089,0.55560102, -0.87061028, -0.40790052, 0.17513421,0.84935965], [-0.35551618,0.3370578 , -0.31560584,0.56922045,0.16742593,  -0.653588, -0.84895185], [ 1.19791031,1.77705595, -1.23918716,0.13074952,1.37791026,  -0.45795388, -0.85457606], [-0.70603391, -1.25048651,1.25137008, -0.84691664, -1.60320424, 0.86189895, -0.82313187],[-0.56115673, -1.44614854, -0.00916369, -0.17716094, -1.21105382, 1.40717432, -0.17722811]]
+W2tr_teacher= [[-1.36151893, -1.02034605, -0.62030626], [ 0.32346548, -1.13522484, -0.46273817], [ 1.24427433,1.36223735, -2.16597965], [-2.06472907, -0.24272685,1.23298532], [ 1.04733931,0.30947796, -0.30946742], [ 2.61245101, -2.28396996, -2.78675876],[-1.94669378,0.06793946,1.50758224], [ 0.60550106,0.73287967,0.02635622]]
+
+ETotalTeacher=[3.22867907,2.92673708,2.68066459,2.46547401,2.29722825, 2.1753676,2.09561669,2.04351701,2.00576799,1.97567074, 1.95009253,1.92745551,1.90689541,1.88790354,1.87016011, 1.85345067,1.83762225,1.82255995,1.80817396,1.79439211, 1.78115513,1.76841362,1.75612576,1.7442557,1.73277244, 1.72164882,1.71086086,1.70038721,1.69020867,1.68030792, 1.67066916,1.66127791,1.65212081,1.64318546,1.63446031, 1.62593451,1.61759782,1.60944053,1.60145341,1.59362759, 1.58595457,1.57842609,1.57103414,1.56377089,1.55662863, 1.54959977,1.54267674,1.53585196,1.52911783,1.52246663, 1.51589046,1.50938123,1.50293052,1.49652954,1.49016904, 1.48383915,1.47752931,1.47122805,1.46492284,1.45859985, 1.45224367,1.44583696,1.43936008,1.4327906,1.42610281, 1.41926716,1.41224978,1.40501233,1.39751227,1.38970446, 1.3815446,1.37299578,1.36403888,1.35468635,1.3449961, 1.33507815,1.32508568,1.3151875,1.30553137,1.29621572, 1.28728223,1.27872719,1.2705205,1.26262239,1.25499379, 1.2476011,1.24041734,1.2334216,1.22659785,1.21993378, 1.21341971,1.20704784,1.20081166,1.19470554,1.18872448, 1.18286391,1.17711961,1.17148764,1.1659643,1.16054613, 1.15522989,1.15001256,1.14489131,1.1398635,1.13492668, 1.13007852,1.12531687,1.12063966,1.11604495,1.11153089, 1.10709571,1.10273773,1.09845536,1.09424706,1.09011141, 1.08604703,1.08205265,1.07812705,1.0742691,1.07047772, 1.06675188,1.06309062,1.05949299,1.05595811,1.05248507, 1.04907302,1.04572109,1.04242841,1.0391941,1.03601727, 1.03289703,1.02983244,1.02682257,1.02386645,1.0209631, 1.01811151,1.01531067,1.01255954,1.00985708,1.00720222, 1.0045939,1.00203105,0.9995126,0.99703748,0.99460462, 0.99221296,0.98986144,0.98754904,0.98527471,0.98303743, 0.98083622,0.97867009,0.97653806,0.97443919,0.97237256, 0.97033725,0.96833238,0.96635707,0.96441049,0.9624918, 0.9606002,0.9587349,0.95689514,0.95508018,0.9532893, 0.95152178,0.94977696,0.94805415,0.94635272,0.94467204, 0.9430115,0.9413705,0.93974848,0.93814488,0.93655915, 0.93499076,0.93343922,0.93190401,0.93038466,0.92888071, 0.92739169,0.92591718,0.92445673,0.92300994,0.9215764, 0.92015572,0.91874751,0.91735142,0.91596707,0.91459413, 0.91323224,0.91188107,0.91054032,0.90920966,0.90788879, 0.90657741,0.90527523,0.90398198,0.90269738,0.90142116, 0.90015307,0.89889284,0.89764024,0.89639503,0.89515696, 0.8939258,0.89270134,0.89148336,0.89027164,0.88906597, 0.88786615,0.88667198,0.88548326,0.88429981,0.88312143, 0.88194794,0.88077916,0.87961492,0.87845504,0.87729935, 0.87614769,0.8749999,0.87385581,0.87271527,0.87157812, 0.87044421,0.86931339,0.86818552,0.86706044,0.86593803, 0.86481813,0.86370062,0.86258535,0.8614722,0.86036103, 0.85925171,0.85814413,0.85703814,0.85593363,0.85483048, 0.85372857,0.85262778,0.85152801,0.85042913,0.84933103, 0.84823361,0.84713677,0.84604039,0.84494438,0.84384863, 0.84275306,0.84165757,0.84056207,0.83946647,0.83837068, 0.83727463,0.83617823,0.83508142,0.83398411,0.83288626, 0.83178778,0.83068863,0.82958875,0.8284881,0.82738662, 0.82628428,0.82518104,0.82407688,0.82297177,0.8218657, 0.82075866,0.81965064,0.81854164,0.81743167,0.81632074, 0.81520888,0.81409611,0.81298246,0.81186798,0.8107527, 0.80963668,0.80851997,0.80740264,0.80628475,0.80516638, 0.80404759,0.80292848,0.80180912,0.80068959,0.79956999, 0.79845041,0.79733093,0.79621165,0.79509266,0.79397405, 0.7928559,0.79173831,0.79062136,0.78950512,0.78838969, 0.78727512,0.78616149,0.78504886,0.78393729,0.78282683, 0.78171752,0.78060941,0.77950253,0.7783969,0.77729255, 0.77618948,0.77508771,0.77398723,0.77288804,0.77179013, 0.77069349,0.76959808,0.76850389,0.76741088,0.76631902, 0.76522826,0.76413857,0.76304989,0.76196219,0.76087539, 0.75978946,0.75870434,0.75761997,0.7565363,0.75545326, 0.75437079,0.75328885,0.75220737,0.75112629,0.75004556, 0.74896512,0.74788491,0.74680489,0.74572499,0.74464517, 0.74356538,0.74248556,0.74140568,0.74032569,0.73924554, 0.7381652,0.73708462,0.73600377,0.73492261,0.73384111, 0.73275924,0.73167697,0.73059426,0.7295111,0.72842745, 0.7273433,0.72625863,0.7251734,0.72408762,0.72300125, 0.72191429,0.72082671,0.71973852,0.71864969,0.71756022, 0.7164701,0.71537931,0.71428787,0.71319575,0.71210296, 0.71100949,0.70991534,0.70882051,0.707725,0.7066288, 0.70553193,0.70443438,0.70333615,0.70223726,0.70113769, 0.70003747,0.69893659,0.69783505,0.69673288,0.69563006, 0.69452662,0.69342255,0.69231787,0.69121259,0.69010672, 0.68900026,0.68789323,0.68678563,0.68567748,0.68456879, 0.68345957,0.68234983,0.68123959,0.68012886,0.67901764, 0.67790596,0.67679383,0.67568125,0.67456825,0.67345484, 0.67234103,0.67122683,0.67011227,0.66899735,0.66788209, 0.66676651,0.66565061,0.66453442,0.66341796,0.66230123, 0.66118425,0.66006703,0.65894961,0.65783198,0.65671416, 0.65559618,0.65447805,0.65335977,0.65224138,0.65112289, 0.65000431,0.64888565,0.64776695,0.6466482,0.64552944, 0.64441066,0.64329191,0.64217318,0.64105449,0.63993587, 0.63881733,0.63769888,0.63658054,0.63546233,0.63434427, 0.63322637,0.63210865,0.63099113,0.62987381,0.62875673, 0.62763989,0.62652332,0.62540702,0.62429102,0.62317533, 0.62205997,0.62094495,0.6198303,0.61871602,0.61760214, 0.61648866,0.61537562,0.61426301,0.61315087,0.6120392, 0.61092802,0.60981735,0.6087072,0.60759759,0.60648853, 0.60538004,0.60427214,0.60316485,0.60205816,0.60095211, 0.59984671,0.59874197,0.59763791,0.59653455,0.59543189, 0.59432995,0.59322876,0.59212832,0.59102864,0.58992975, 0.58883165,0.58773437,0.58663791,0.5855423,0.58444754, 0.58335365,0.58226064,0.58116852,0.58007732,0.57898705, 0.57789771,0.57680932,0.5757219,0.57463546,0.57355001, 0.57246556,0.57138213,0.57029974,0.56921839,0.56813809]
+misclassification_rateTeacher=[0.7 , 0.65, 0.6 , 0.55, 0.75, 0.75, 0.7 , 0.5 , 0.45, 0.3 , 0.05, 0.1 , 0.2 , 0.25, 0.25, 0.25, 0.25, 0.25, 0.25, 0.25, 0.25, 0.25, 0.25, 0.25, 0.25, 0.25, 0.25, 0.25, 0.25, 0.25, 0.25, 0.25, 0.25, 0.25, 0.25, 0.25, 0.25, 0.25, 0.25, 0.25, 0.25, 0.25, 0.25, 0.25, 0.25, 0.25, 0.25, 0.25, 0.25, 0.25, 0.25, 0.25, 0.25, 0.25, 0.25, 0.25, 0.25, 0.25, 0.25, 0.25, 0.25, 0.25, 0.25, 0.25, 0.25, 0.25, 0.25, 0.25, 0.25, 0.25, 0.25, 0.25, 0.25, 0.25, 0.25, 0.25, 0.25, 0.25, 0.25, 0.25, 0.25, 0.25, 0.25, 0.25, 0.25, 0.25, 0.25, 0.25, 0.25, 0.25, 0.25, 0.25, 0.25, 0.25, 0.25, 0.25, 0.25, 0.25, 0.25, 0.25, 0.25, 0.25, 0.25, 0.25, 0.25, 0.25, 0.25, 0.25, 0.25, 0.25, 0.25, 0.25, 0.25, 0.25, 0.25, 0.25, 0.25, 0.25, 0.25, 0.25, 0.25, 0.25, 0.25, 0.25, 0.25, 0.25, 0.25, 0.25, 0.25, 0.25, 0.25, 0.25, 0.25, 0.25, 0.25, 0.25, 0.25, 0.25, 0.25, 0.25, 0.25, 0.25, 0.25, 0.25, 0.25, 0.25, 0.25, 0.25, 0.25, 0.25, 0.25, 0.25, 0.25, 0.25, 0.25, 0.25, 0.25, 0.25, 0.25, 0.25, 0.25, 0.25, 0.25, 0.25, 0.25,0.25, 0.25, 0.25, 0.25, 0.25, 0.25, 0.25, 0.25, 0.25, 0.25, 0.25, 0.25, 0.25, 0.25, 0.25, 0.25, 0.25, 0.25, 0.25, 0.25, 0.25, 0.25, 0.25, 0.25, 0.25, 0.25, 0.25, 0.25, 0.25, 0.25, 0.25, 0.25, 0.25, 0.25, 0.25, 0.25, 0.25, 0.25, 0.25, 0.25, 0.25, 0.25, 0.25, 0.25, 0.25, 0.25, 0.25, 0.25, 0.25, 0.25, 0.25, 0.25, 0.25, 0.25, 0.25, 0.25, 0.25, 0.25, 0.25, 0.25, 0.25, 0.25, 0.25, 0.25, 0.25, 0.25, 0.25, 0.25, 0.25, 0.25, 0.25, 0.25, 0.25, 0.25, 0.25, 0.25, 0.25, 0.25, 0.25, 0.25, 0.25, 0.25, 0.25, 0.25, 0.25, 0.25, 0.25, 0.25, 0.25, 0.25, 0.25, 0.25, 0.25, 0.25, 0.25, 0.25, 0.25, 0.25, 0.25, 0.25, 0.25, 0.25, 0.25, 0.25, 0.25, 0.25, 0.25, 0.25, 0.25, 0.25, 0.25, 0.25, 0.25, 0.25, 0.25, 0.25, 0.25, 0.2 , 0.2 , 0.2 , 0.2 , 0.2 , 0.2 , 0.2 , 0.2 , 0.2 , 0.2 , 0.2 , 0.2 , 0.2 , 0.2 , 0.2 , 0.2 , 0.2 , 0.2 , 0.2 , 0.2 , 0.2 , 0.2 , 0.2 , 0.2 , 0.2 , 0.2 , 0.2 , 0.2 , 0.2 , 0.2 , 0.2 , 0.2 , 0.2 , 0.2 , 0.2 , 0.2 , 0.2 , 0.2 , 0.2 , 0.2 , 0.2 , 0.2 , 0.2 , 0.2 , 0.2 , 0.2 , 0.2 , 0.2 , 0.2 , 0.2 , 0.2 , 0.2 , 0.2 , 0.2 , 0.2 , 0.2 , 0.2 , 0.2 , 0.2 , 0.2 , 0.2 , 0.2 , 0.2 , 0.2 , 0.2 , 0.2 , 0.15, 0.15, 0.15, 0.15, 0.15, 0.15, 0.15, 0.15, 0.15, 0.15, 0.15, 0.15, 0.15, 0.15, 0.15, 0.15, 0.15, 0.15, 0.15, 0.15, 0.1 , 0.1 , 0.1 , 0.1 , 0.1 , 0.1 , 0.1 , 0.1 , 0.1 , 0.1 , 0.1 , 0.1 , 0.1 , 0.1 , 0.1 , 0.1 , 0.1 , 0.1 , 0.1 , 0.1 , 0.1 , 0.1 , 0.1 , 0.1 , 0.1 , 0.1 , 0.1 , 0.1 ,0.1 , 0.1 , 0.1 , 0.1 , 0.1 , 0.1 , 0.1 , 0.1 , 0.1 , 0.1 , 0.1 , 0.1 , 0.1 , 0.1 , 0.1 , 0.1 , 0.1 , 0.1 , 0.1 , 0.1 , 0.05, 0.05, 0.05, 0.05, 0.05, 0.05, 0.05, 0.05, 0.05, 0.05, 0.05, 0.05, 0.05, 0.05, 0.05, 0.05, 0.05, 0.05, 0.05, 0.05, 0.05, 0.05, 0.05, 0.05, 0.05, 0.05, 0.05, 0.05, 0.05, 0.05, 0.05, 0.05, 0.05, 0.05, 0.05, 0.05, 0.05, 0.05, 0.05, 0.05, 0.05, 0.05, 0.05, 0.05, 0., 0., 0., 0., 0., 0., 0., 0., 0., 0., 0., 0., 0., 0., 0., 0., 0., 0., 0., 0., 0., 0., 0., 0.,0., 0., 0., 0., 0., 0., 0., 0., 0., 0., 0., 0., 0., 0., 0., 0.]
+
+print("W1TR=", np.allclose(W1tr,W1tr_teacher))
+print("W2TR=", np.allclose(W2tr,W2tr_teacher))
+print("Etotal-Comparison=", np.allclose(Etotal,ETotalTeacher))
+print("MisclassificationRate =",np.allclose(misclassification_rate,misclassification_rateTeacher))
+print("last_guesses=",(np.allclose(last_guesses,[2., 0., 2., 0., 0., 1., 2., 2., 1., 0., 0., 2., 2., 0., 1., 1., 0., 1., 0., 2.])))
+
+tester()
